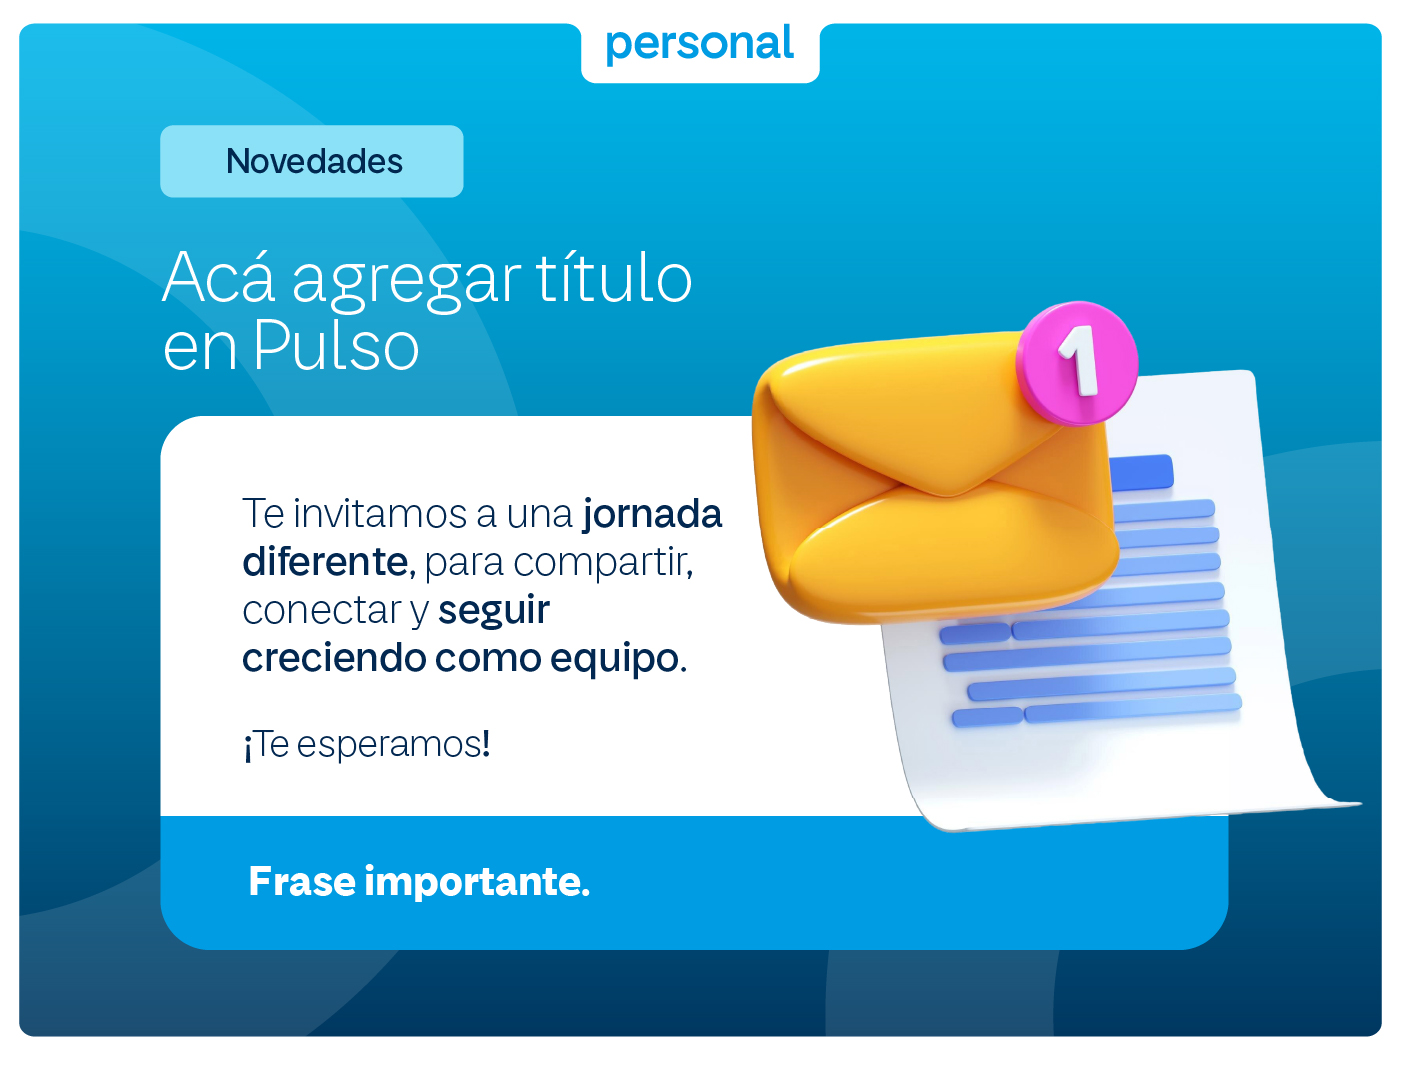
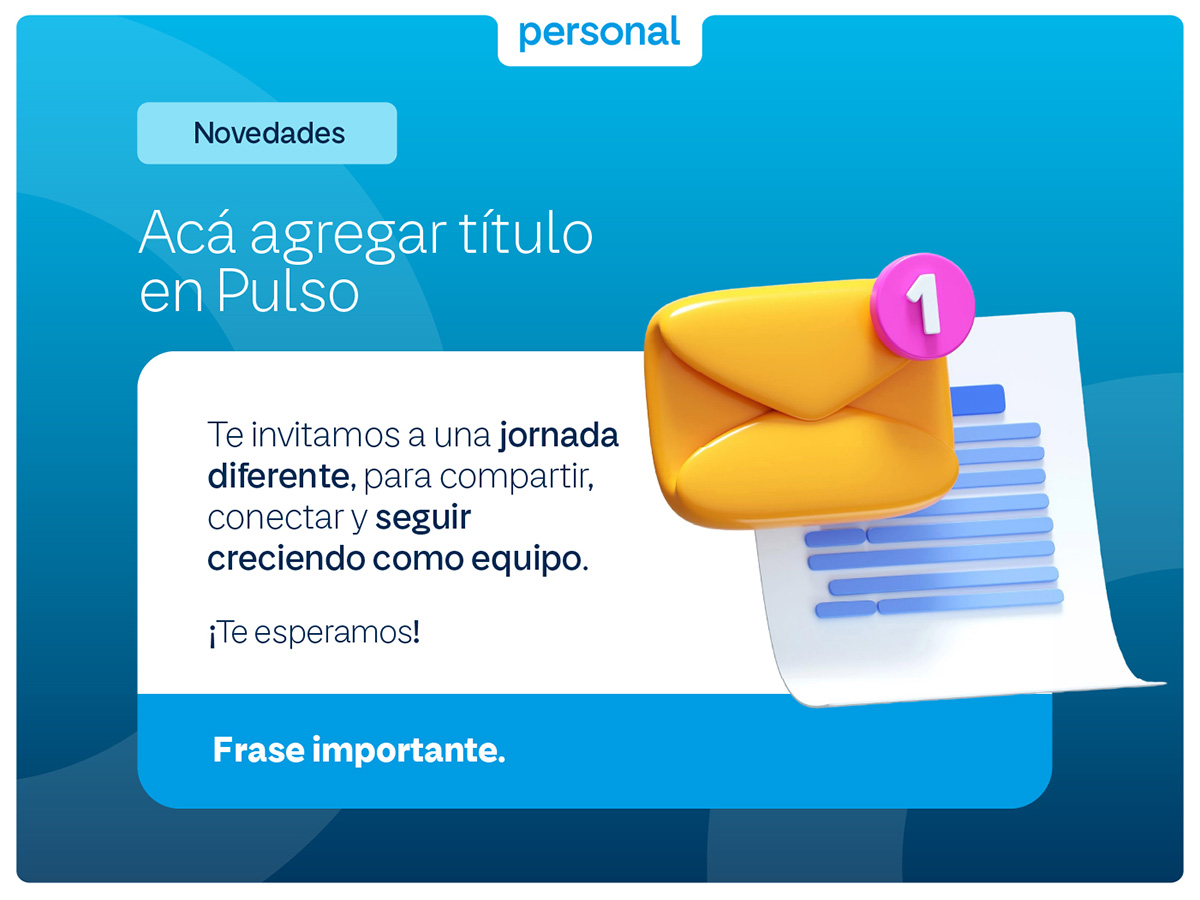
first commit

diff --git a/templates/index.html b/templates/index.html
@@ -454,7 +454,7 @@
 														data-threshold="0">
 														<img class="cs-lazy" src="../assets/img/null.png"
 															data-src="../content/templates/e-mails/e-mail-1.jpg" alt=""
-															alt="" width="1920" height="1080" />
+															alt="" width="1200" height="900" />
 													</div>
 													<div class="cs-masked-content at-bottom-center">
 														<div class="cs-column-item-content">
@@ -476,8 +476,6 @@
 												</div>
 											</div>
 
-
-
 											<div class="cs-column-item cs-masked-block" data-unload="fade-up">
 												<div class="cs-masked-block cs-grid-more-masked"
 													data-file-group="vectorial">
@@ -485,7 +483,7 @@
 														data-threshold="0">
 														<img class="cs-lazy" src="../assets/img/null.png"
 															data-src="../content/templates/e-mails/e-mail-2.jpg" alt=""
-															alt="" width="1920" height="1080" />
+															alt="" width="1200" height="900" />
 													</div>
 													<div class="cs-masked-content at-bottom-center">
 														<div class="cs-column-item-content">
@@ -514,7 +512,7 @@
 														data-threshold="0">
 														<img class="cs-lazy" src="../assets/img/null.png"
 															data-src="../content/templates/e-mails/e-mail-3.jpg" alt=""
-															alt="" width="1920" height="1080" />
+															alt="" width="1200" height="900" />
 													</div>
 													<div class="cs-masked-content at-bottom-center">
 														<div class="cs-column-item-content">
@@ -543,7 +541,7 @@
 														data-threshold="0">
 														<img class="cs-lazy" src="../assets/img/null.png"
 															data-src="../content/templates/e-mails/invitacion-1.jpg"
-															alt="" alt="" width="1920" height="1080" />
+															alt="" alt="" width="1200" height="900" />
 													</div>
 													<div class="cs-masked-content at-bottom-center">
 														<div class="cs-column-item-content">
@@ -572,7 +570,7 @@
 														data-threshold="0">
 														<img class="cs-lazy" src="../assets/img/null.png"
 															data-src="../content/templates/e-mails/invitacion-2.jpg"
-															alt="" alt="" width="1920" height="1080" />
+															alt="" alt="" width="1200" height="900" />
 													</div>
 													<div class="cs-masked-content at-bottom-center">
 														<div class="cs-column-item-content">
@@ -601,7 +599,7 @@
 														data-threshold="0">
 														<img class="cs-lazy" src="../assets/img/null.png"
 															data-src="../content/templates/e-mails/invitacion-3.jpg"
-															alt="" alt="" width="1920" height="1080" />
+															alt="" alt="" width="1200" height="900" />
 													</div>
 													<div class="cs-masked-content at-bottom-center">
 														<div class="cs-column-item-content">
